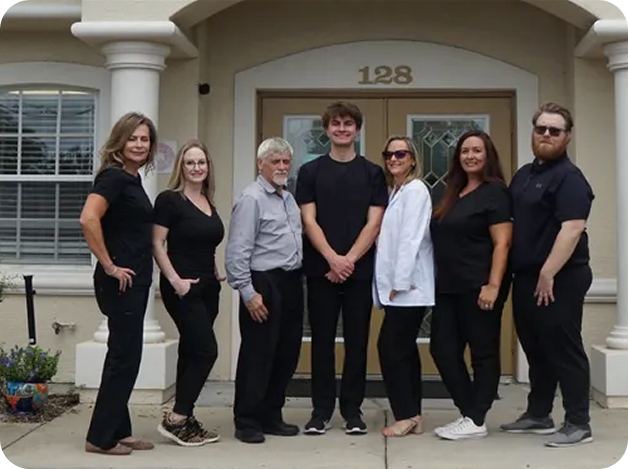
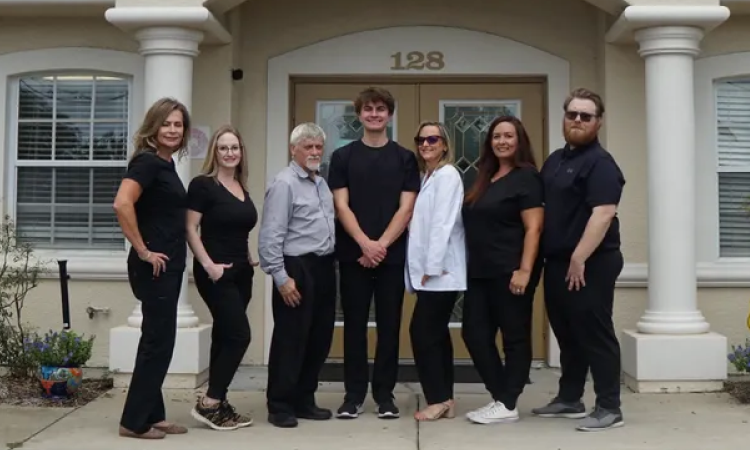
testimonial slider update

diff --git a/components/Testimonials.tsx b/components/Testimonials.tsx
@@ -70,20 +70,27 @@ export default function Testimonials() {
           </a>
         </div>
 
-        {/* Swiper */}
+        {/* First Swiper - Left to Right Marquee */}
         <Swiper
-          modules={[ Autoplay]}
+          modules={[Autoplay]}
           spaceBetween={24}
-          slidesPerView={1}
-          autoplay={{ delay: 3500, disableOnInteraction: false }}
-          pagination={{ clickable: true }}
-          navigation
-          breakpoints={{
-            640: { slidesPerView: 1 },
-            1024: { slidesPerView: 2 },
-            1280: { slidesPerView: 3 },
+          slidesPerView={1}   // 👈 default for mobile
+          autoplay={{
+            delay: 0,
+            disableOnInteraction: false,
+            reverseDirection: true,
           }}
-          className="pb-16"
+          speed={6000}
+          loop={true}
+          allowTouchMove={false}
+          freeMode={true}
+          breakpoints={{
+            640: { slidesPerView: 1 },   // small screens (still 1)
+            768: { slidesPerView: 2 },   // tablets
+            1024: { slidesPerView: 3 },  // laptops
+            1280: { slidesPerView: 3 },  // desktops
+          }}
+          className="pb-16 mb-8"
         >
           {testimonials.map((testimonial, index) => (
             <SwiperSlide key={index}>
@@ -129,6 +136,71 @@ export default function Testimonials() {
           ))}
         </Swiper>
 
+        {/* Second Swiper - Right to Left Marquee */}
+        <Swiper
+          modules={[Autoplay]}
+          spaceBetween={24}
+          slidesPerView={1}   // 👈 default for mobile
+          autoplay={{
+            delay: 0,
+            disableOnInteraction: false,
+            reverseDirection: false,
+          }}
+          speed={6000}
+          loop={true}
+          allowTouchMove={false}
+          freeMode={true}
+          breakpoints={{
+            640: { slidesPerView: 1 },   // small screens (still 1)
+            768: { slidesPerView: 2 },   // tablets
+            1024: { slidesPerView: 3 },  // laptops
+            1280: { slidesPerView: 3 },  // desktops
+          }}
+          className="pb-16 mb-8"
+        >
+          {testimonials.map((testimonial, index) => (
+            <SwiperSlide key={`second-${index}`}>
+              <div className="bg-white rounded-2xl shadow-sm hover:shadow-md transition p-6 border border-gray-100 h-full flex flex-col">
+                {/* User Info */}
+                <div className="flex items-center gap-4 mb-4">
+                  {testimonial.image ? (
+                    <Image
+                      src={testimonial.image}
+                      alt={testimonial.name}
+                      width={48}
+                      height={48}
+                      className="w-12 h-12 rounded-full object-cover"
+                    />
+                  ) : (
+                    <div className="w-12 h-12 flex items-center justify-center rounded-full bg-blue-500 text-white font-bold">
+                      {testimonial.name.charAt(0)}
+                    </div>
+                  )}
+                  <div>
+                    <h3 className="font-semibold text-gray-900">
+                      {testimonial.name}
+                    </h3>
+                    <p className="text-sm text-gray-500">{testimonial.time}</p>
+                  </div>
+                </div>
+
+                {/* Rating */}
+                <div className="flex items-center mb-3">
+                  {Array.from({ length: testimonial.rating }).map((_, i) => (
+                    <span key={i} className="text-orange-500 text-lg">
+                      ★
+                    </span>
+                  ))}
+                </div>
+
+                {/* Review */}
+                <p className="text-sm text-gray-600 leading-relaxed">
+                  {testimonial.review}
+                </p>
+              </div>
+            </SwiperSlide>
+          ))}
+        </Swiper>
         
 
       </div>

diff --git a/components/About.tsx b/components/About.tsx
@@ -10,7 +10,7 @@ export default function About() {
                         <Image
                             src="/images/about/about.png"
                             alt="Our Team"
-                            className="w-[600px] h-auto object-cover rounded-xl"
+                            className="w-auto h-auto object-cover rounded-xl"
                             width={630}
                             height={470}
                         />
